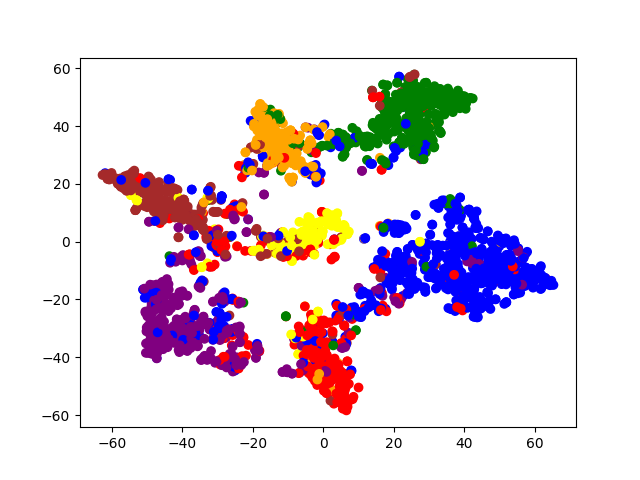
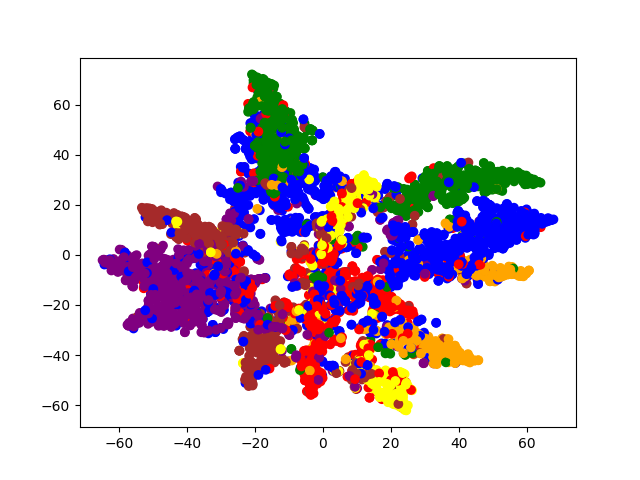
added NNConv

diff --git a/test_gnn.py b/test_gnn.py
@@ -19,7 +19,7 @@ import torch
 import torch.optim as optim
 
 from torch_geometric.datasets import TUDataset
-from torch_geometric.datasets import Planetoid
+from torch_geometric.datasets import Planetoid, ZINC, PPI
 from torch_geometric.data import DataLoader
 
 import torch_geometric.transforms as T
@@ -29,48 +29,70 @@ from torch.utils.tensorboard import SummaryWriter
 from sklearn.manifold import TSNE
 import matplotlib.pyplot as plt
 
+class PrintLayer(nn.Module):
+    def __init__(self):
+        super(PrintLayer, self).__init__()
+    
+    def forward(self, x):
+        print(x.dtype, "#"*10)
+        return x
+
 
 class TestGNN(nn.Module):
-    def __init__(self, input_dim, output_dim):
+    def __init__(self, input_dim, output_dim, edge_dim):
         super(TestGNN, self).__init__()
 
         self.dropout = 0.25
         self.num_convs = 3
+        self.edge_dim = edge_dim
 
-        self.convs = nn.ModuleList([
-          torchgeo_nn.GCNConv(input_dim, 32),
-          torchgeo_nn.GCNConv(32, 64),
-          torchgeo_nn.GCNConv(64, 128),
-        ])
-
-        self.norms = nn.ModuleList([
+        self.model = torchgeo_nn.Sequential('x, edge_index, edge_attr', [
+            (PrintLayer(), "x -> x"),
+            (torchgeo_nn.NNConv(input_dim, 32, self.edge_feat_net(input_dim, 32)), 'x, edge_index, edge_attr -> x'),
+            PrintLayer(),
+            nn.ReLU(),
+            nn.Dropout(p=self.dropout),
             nn.LayerNorm(32),
+            (torchgeo_nn.NNConv(32, 64, self.edge_feat_net(32, 64)), 'x, edge_index, edge_attr -> x'),
+            PrintLayer(),
+            nn.ReLU(),
+            nn.Dropout(p=self.dropout),
             nn.LayerNorm(64),
+            (torchgeo_nn.NNConv(64, 128, self.edge_feat_net(64, 128)), 'x, edge_index, edge_attr -> x'),
+            PrintLayer(),
+            
         ])
 
         # post-message-passing
         self.post_mp = nn.Sequential(
+            nn.ReLU(),
+            nn.Dropout(p=self.dropout),
             nn.Linear(128, 64), 
+            nn.Dropout(self.dropout),
             nn.Linear(64, output_dim),
-            nn.Dropout(self.dropout)
         )
 
         
+    def edge_feat_net(self, input_dims, output_dims):
+        return nn.Sequential(
+            nn.Linear(self.edge_dim, self.edge_dim, dtype=torch.float32), 
+            nn.ReLU(), 
+            nn.Linear(self.edge_dim, input_dims * output_dims, dtype=torch.float32)
+        )
+        
         
     def forward(self, data):
-        x, edge_index, batch = data.x, data.edge_index, data.batch
+        x, edge_index, edge_attr, batch = data.x, data.edge_index, data.edge_attr, data.batch
         if data.num_node_features == 0:
           x = torch.ones(data.num_nodes, 1)
-
-        for i in range(self.num_convs):
-            x = self.convs[i](x, edge_index)
-            emb = x
-            x = F.relu(x)
-            x = F.dropout(x, p=self.dropout, training=self.training)
-            if i != self.num_convs - 1:
-                x = self.norms[i](x)
-
-        x = self.post_mp(x)
+        x = x.type(torch.FloatTensor)
+        # edge_index = edge_index.to(torch.float32)
+        edge_attr = edge_attr.to(torch.float32)
+        # print(x, edge_attr)
+        # print(type(x), type(edge_attr))
+        # split network in two, so we can get node embbedings for visualization
+        emb = self.model(x, edge_index, edge_attr)
+        x = self.post_mp(emb)
 
         return emb, F.log_softmax(x, dim=1)
 
@@ -79,9 +101,10 @@ class TestGNN(nn.Module):
     
 def train(dataset, writer):
     test_loader = loader = DataLoader(dataset, batch_size=64, shuffle=True)
+    print(dataset.num_edge_features, dataset.num_node_features)
 
     # build model
-    learner = TestGNN(max(dataset.num_node_features, 1), dataset.num_classes)
+    learner = TestGNN(max(dataset.num_node_features, 1), dataset.num_classes, max(dataset.num_edge_features, 1))
     opt = optim.Adam(learner.parameters(), lr=0.01)
     
     # train
@@ -90,7 +113,7 @@ def train(dataset, writer):
         learner.train()
         for batch in loader:
             #print(batch.train_mask, '----')
-            print(batch)
+            # print(batch)
             opt.zero_grad()
             embedding, pred = learner(batch)
             label = batch.y
@@ -140,7 +163,7 @@ EPOCHS = 200
 
 writer = SummaryWriter("./runs/" + datetime.now().strftime("%Y%m%d-%H%M%S"))
 
-dataset = Planetoid(root='/tmp/cora', name='cora')
+dataset = ZINC(root='/tmp/zinc', subset=True)
 
 model = train(dataset, writer)
 
@@ -153,6 +176,7 @@ embs = []
 colors = []
 model.eval()
 for batch in loader:
+    # print(batch.edge_index.size())
     emb, pred = model(batch)
     embs.append(emb)
     colors += [color_list[y] for y in batch.y]

diff --git a/README.md b/README.md
@@ -2,11 +2,11 @@
 
 ## To install the required packages 
 * create a new venv in this directory
- * run `python -m venv <NAME>`
+  * run `python -m venv <NAME>`
 * For powershell run:
- * `.\<NAME>\Scripts\Activate.ps1`
+  * `.\<NAME>\Scripts\Activate.ps1`
 * For commandline run:
- * `.\<NAME>\Scripts\Activate.bat`
+  * `.\<NAME>\Scripts\Activate.bat`
 * run `pip install -r requirments.txt`
 
 ## To use tensorboard
